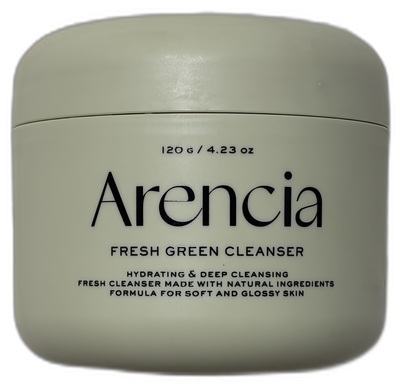
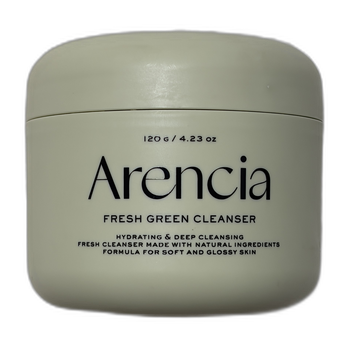
fix arencia image — 300px height, centered, add padding to product detail img

diff --git a/styles.css b/styles.css
@@ -466,7 +466,7 @@ body.night {
   height: 300px;
   overflow: visible;
 }
-.detail-img { width: 100%; height: 100%; object-fit: cover; }
+.detail-img { width: 100%; height: 100%; object-fit: contain; padding: 16px; }
 .detail-sticker { position: absolute; bottom: 18px; left: 18px; }
 
 .detail-head { padding-top: 8px; }
